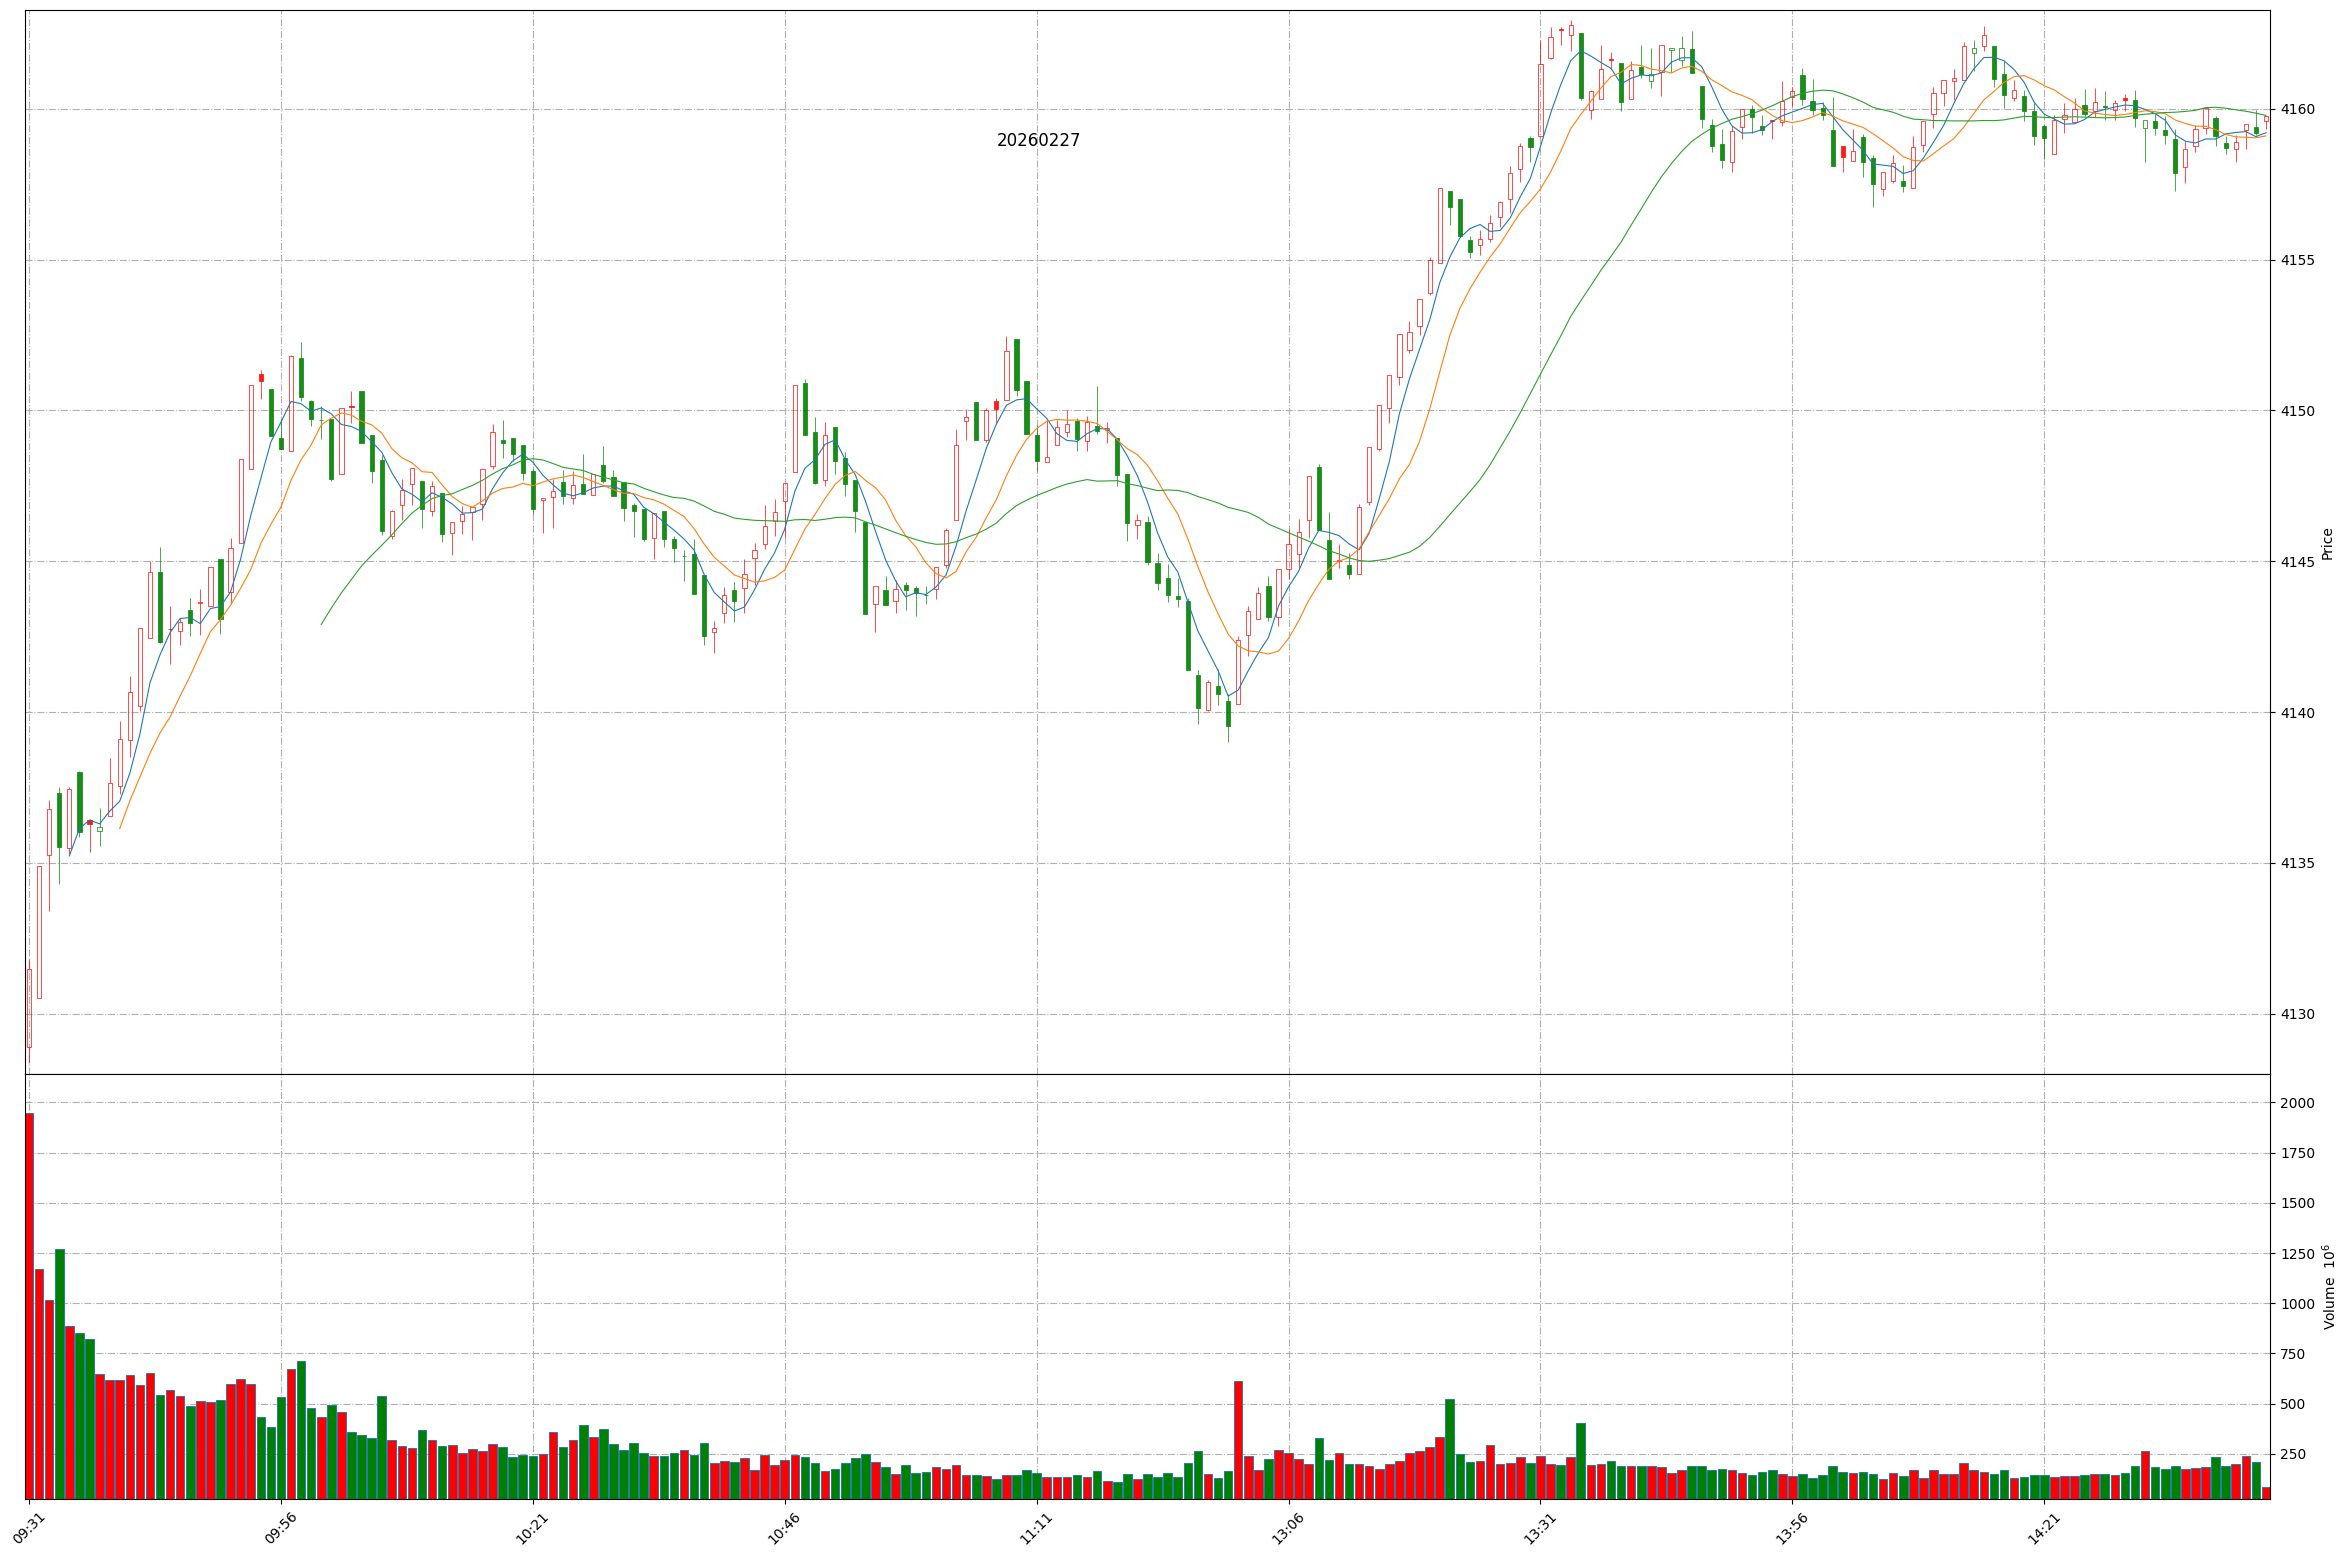
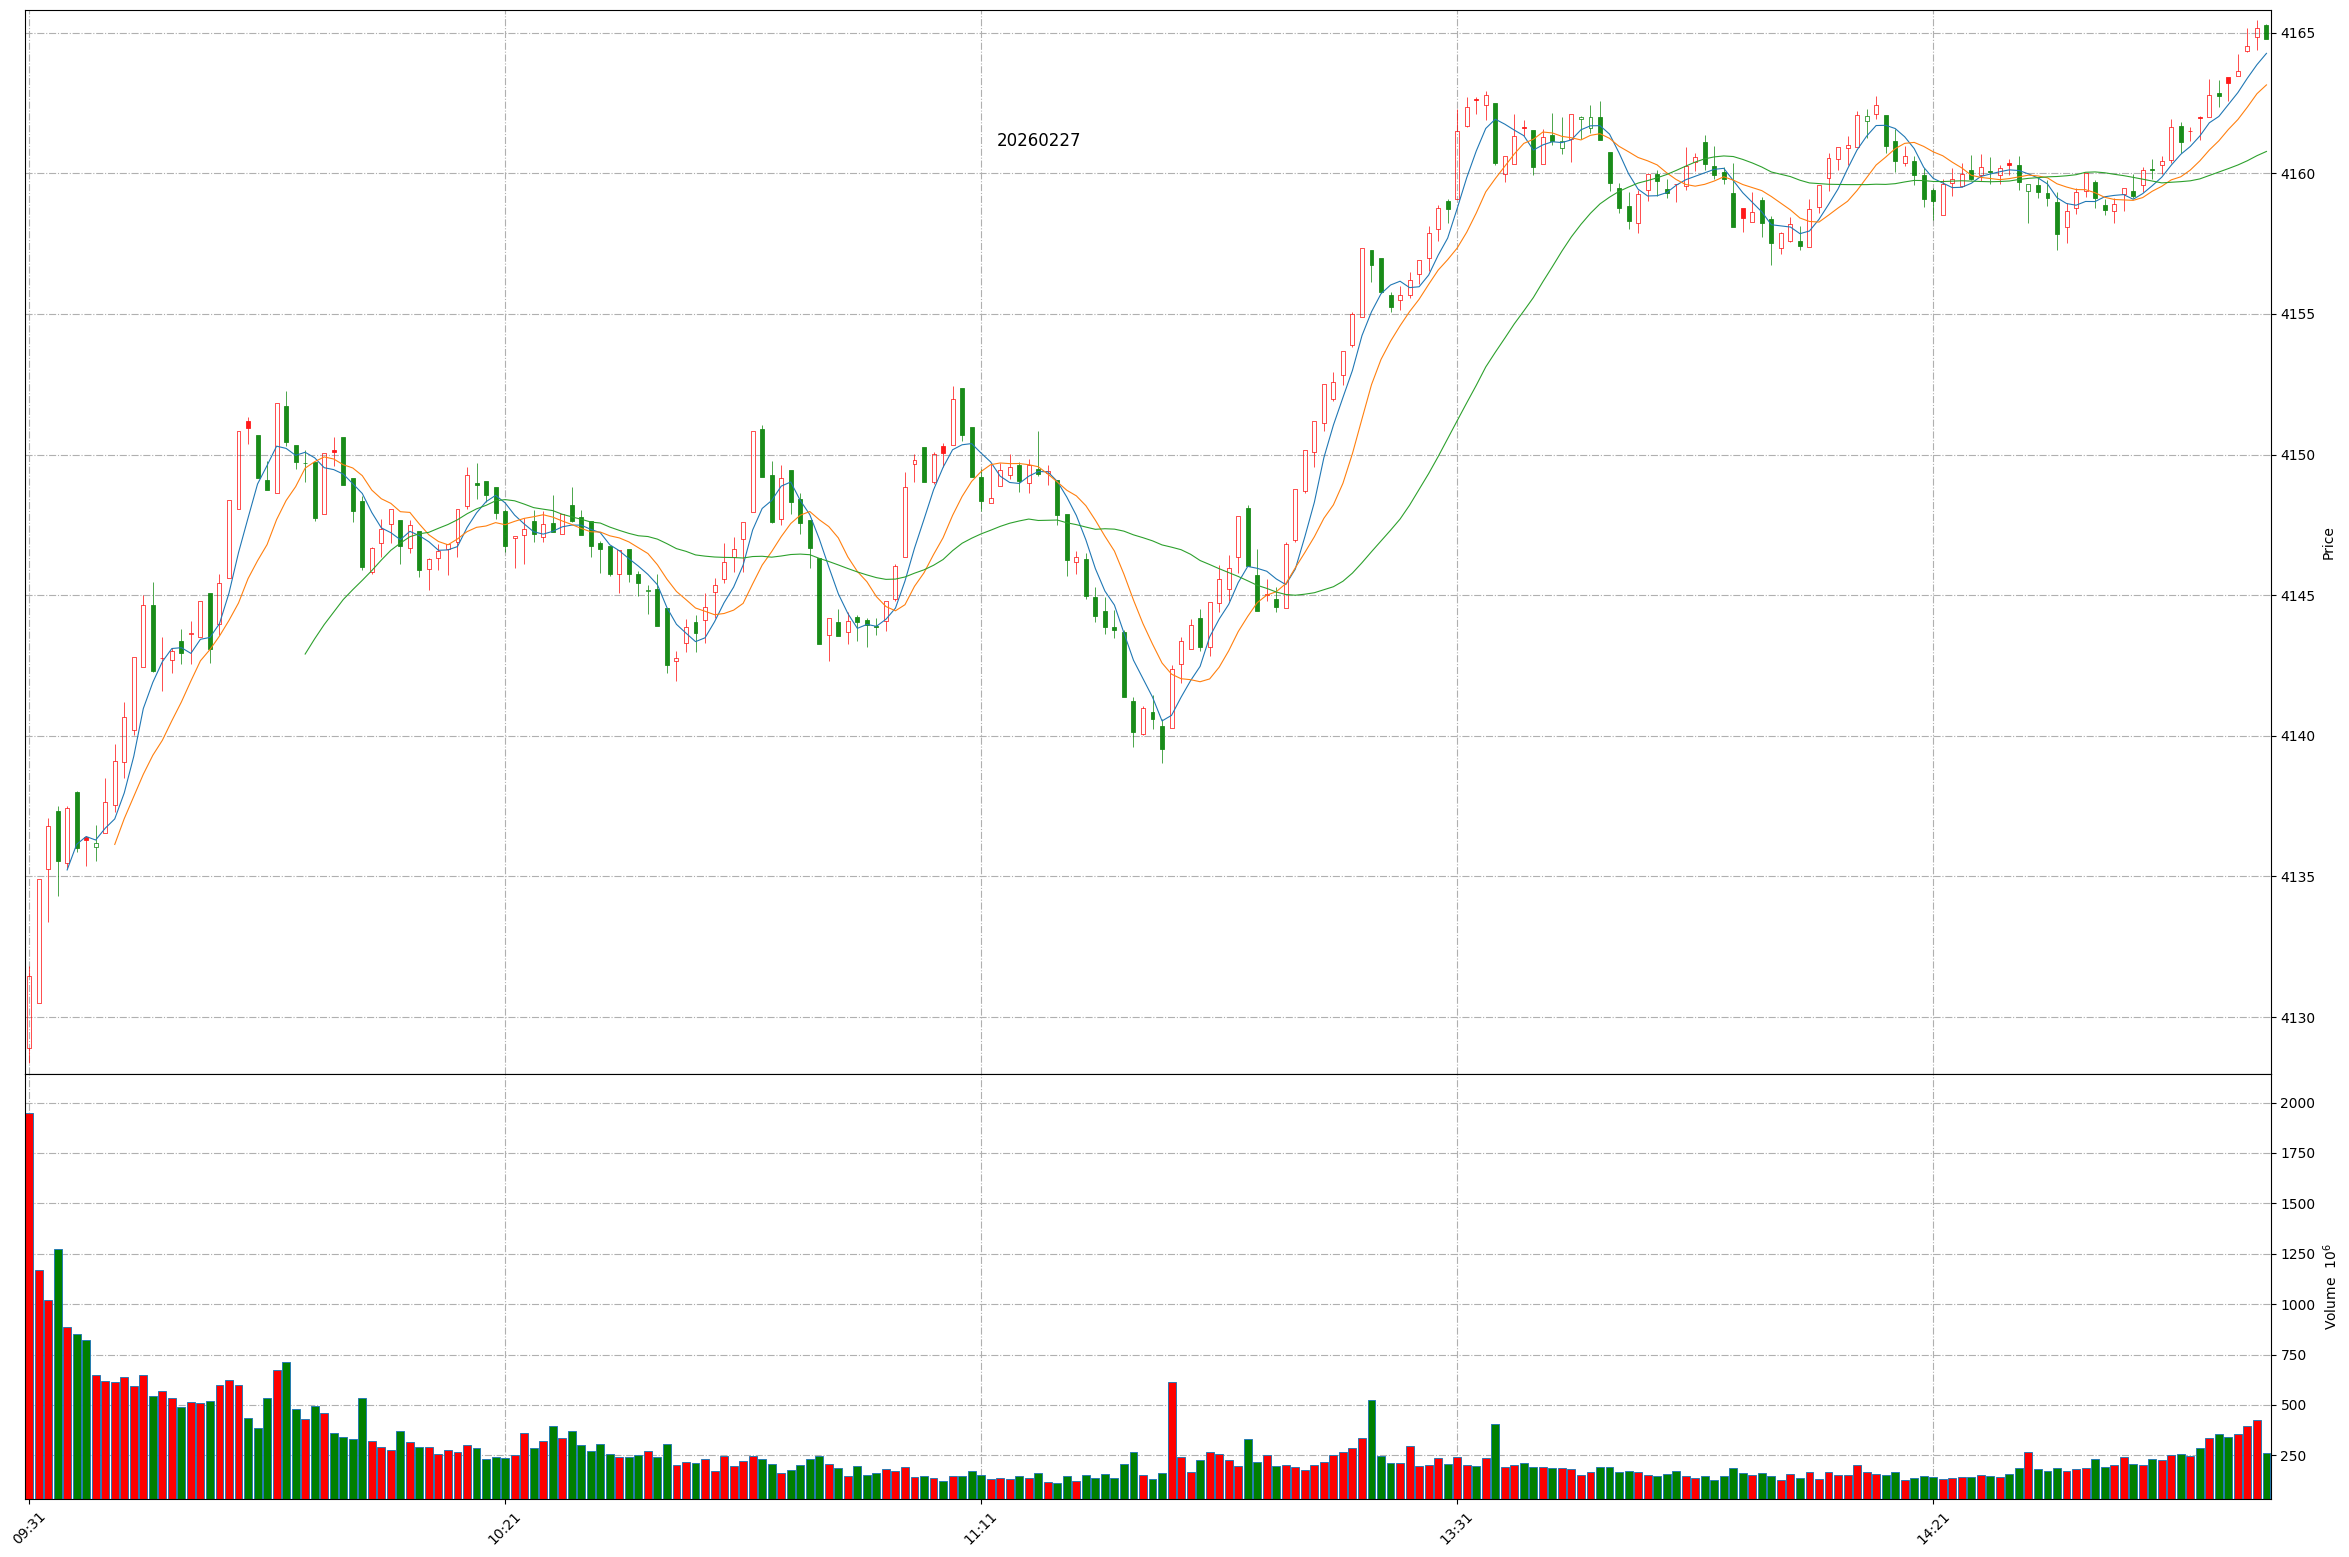
Github action update at 2026-02-27 14:55:57.

diff --git a/README.md b/README.md
@@ -1,11 +1,11 @@
 
 # Daily-A-share-market-quotes 每日 A 股指数（5min 更新）- 20260227
 
-### 上证指数 20260227 14:42
+### 上证指数 20260227 14:55
 ![](./fig/2026/2/20260227-sh000001.png)
 
-### 深证成指 20260227 14:42
+### 深证成指 20260227 14:55
 ![](./fig/2026/2/20260227-sz399001.png)
 
-### 北证50 20260227 14:42
+### 北证50 20260227 14:55
 ![](./fig/2026/2/20260227-bj899050.png)
